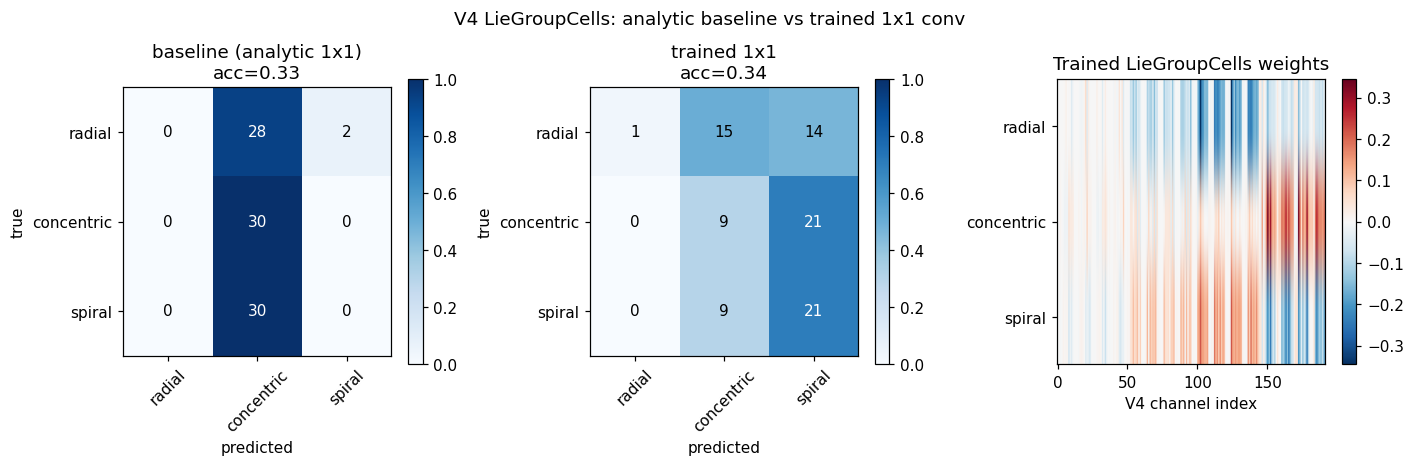
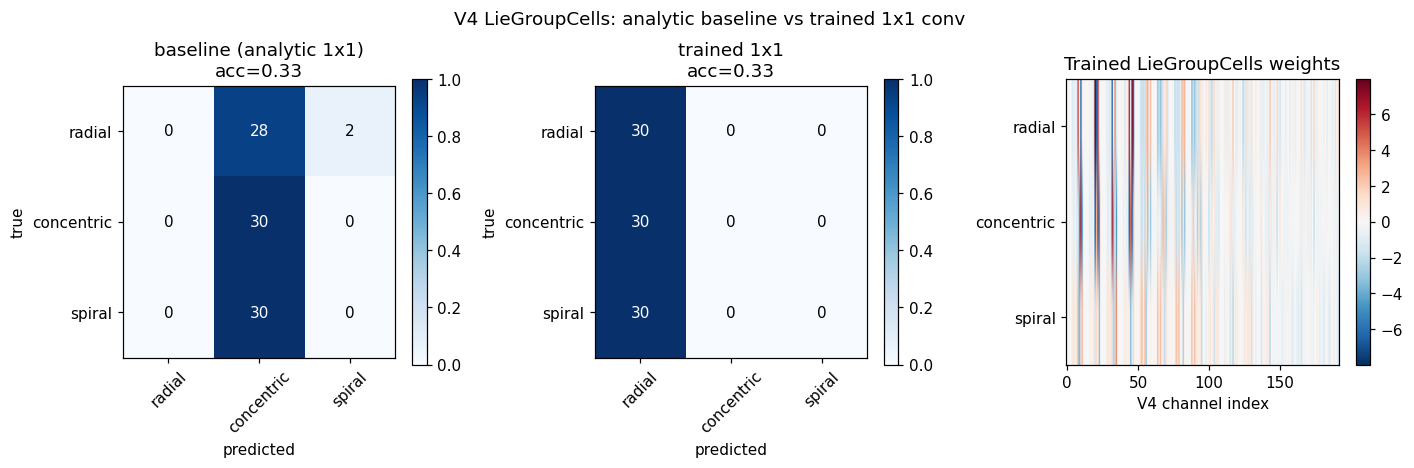
swap BatchNorm for LayerNorm in training readout head
The BatchNorm1d head trained to 86% train accuracy but collapsed to
"always predict radial" at eval time -- a classic running-stats
instability with small batches and a non-i.i.d. shuffled stream.
LayerNorm normalizes the 3 class logits per example, has no running
statistics, and is robust at eval.

https://claude.ai/code/session_01RwJ4JWzyuqqxNmHvFf5Jyh

diff --git a/examples/v4_recursive_filters_train.py b/examples/v4_recursive_filters_train.py
@@ -82,20 +82,21 @@ def print_matrix(matrix):
 
 
 class ReadoutHead(nn.Module):
-    """Spatial pool + BatchNorm + per-class affine on top of LieGroupCells.
+    """Spatial pool + LayerNorm + per-class affine on top of LieGroupCells.
 
-    BatchNorm normalizes each cell's logit distribution so the cross-entropy
-    gradient isn't drowned out by the cells having different absolute
-    magnitudes. The affine layer adds learnable per-class scale/bias.
+    LayerNorm balances the per-example class logits without relying on
+    running statistics (which BatchNorm needs and which were unstable
+    here at small batch sizes). The learnable affine adds per-class
+    scale and bias so the model can express any final linear mapping.
     """
 
     def __init__(self, n_classes: int):
         super().__init__()
-        self.bn = nn.BatchNorm1d(n_classes)
+        self.norm = nn.LayerNorm(n_classes)
 
     def forward(self, cells: torch.Tensor) -> torch.Tensor:
         pooled = cells.mean(dim=(-1, -2))
-        return self.bn(pooled)
+        return self.norm(pooled)
 
 
 def train(backbone_model, head, train_x, train_y, epochs, lr, batch_size, weight_decay):
